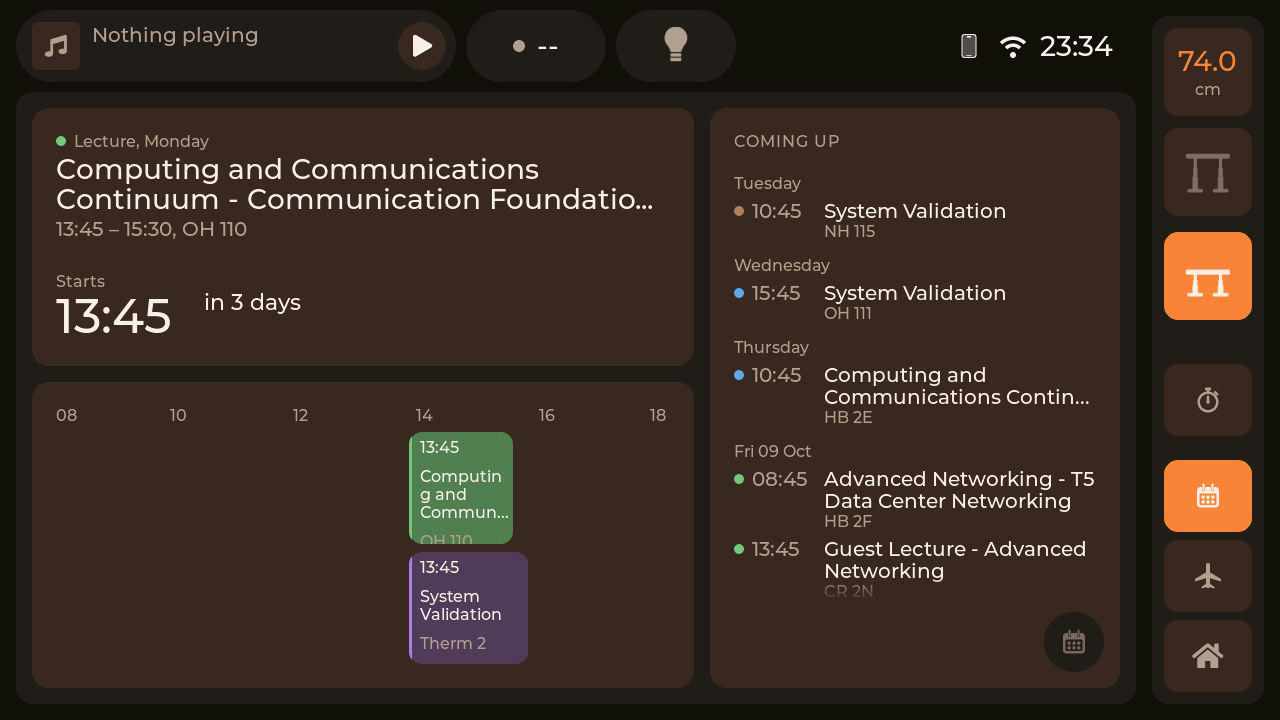
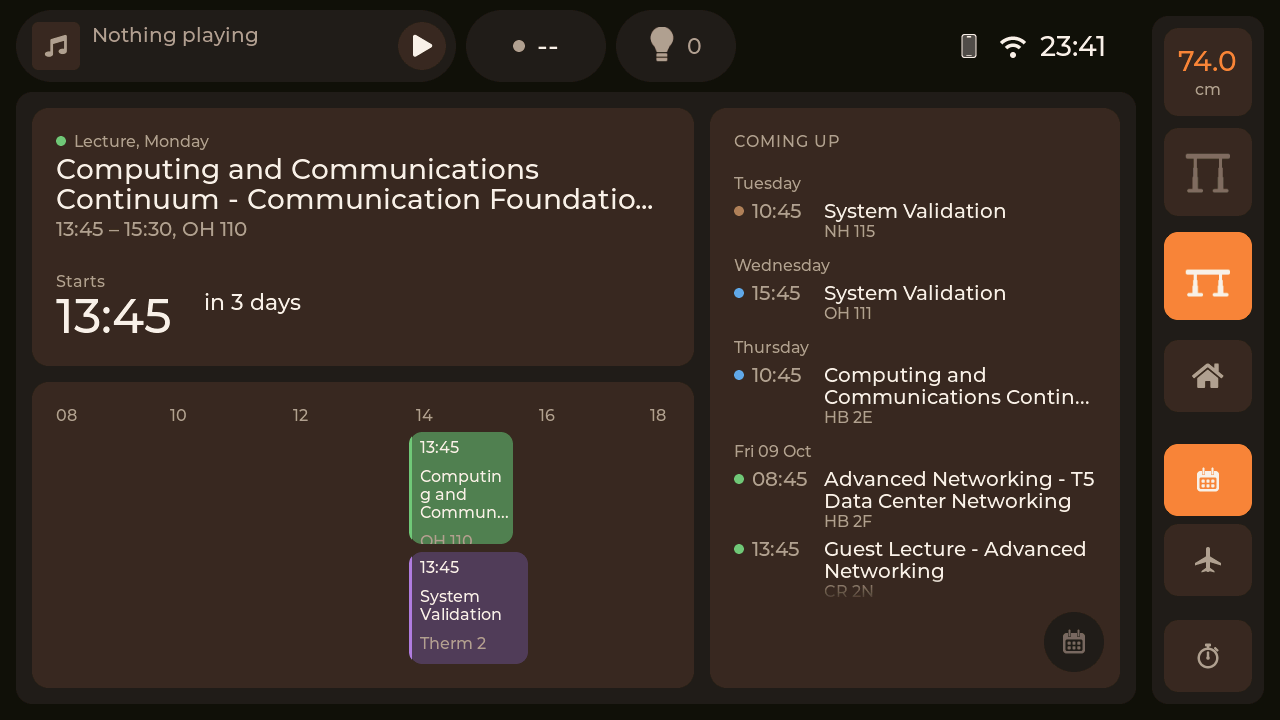
Put Home under Stand and Sit, where a hand finds it first, with Radar and Calendar standing up from the dock's foot and the timer lowest, being no page; and the lights' count 0 while they are off rather than nothing

diff --git a/components/ui/rail.cpp b/components/ui/rail.cpp
@@ -23,7 +23,9 @@ constexpr std::int32_t DOCK_INNER_W  = DOCK_W - 2 * DOCK_PAD;  // Stand and Sit 
 constexpr std::int32_t DOCK_GAP      = 12;
 constexpr std::int32_t DOCK_DESK_ICON = 46;
 constexpr std::int32_t FOCUS_H     = 72;
-constexpr std::int32_t FOCUS_APART = 16;  // from the tabs under it
+constexpr std::int32_t FOCUS_APART = 16;  // from the tabs over it
+// Home under Stand and Sit, apart from them: the height and the two, then a gap.
+constexpr std::int32_t HOME_Y = 3 * (DOCK_W - 2 * DOCK_PAD) + 2 * DOCK_GAP + 2 * DOCK_GAP;
 
 constexpr std::int32_t SHEET_PAD     = 28;
 constexpr std::int32_t SHEET_GAP     = 24;  // from the dock
@@ -248,13 +250,13 @@ void paint_focus_button()
     lv_obj_set_style_opa(s_focus_left, focus_paused(focus) ? LV_OPA_50 : LV_OPA_COVER, 0);
 }
 
-// Over the pages' tabs, a little apart from them, being no page itself.
+// Under the pages' tabs, a little apart from them, being no page itself.
 void build_focus_button(lv_obj_t *tabs)
 {
     s_focus_button = lv_button_create(tabs);
     theme::style_button(s_focus_button, theme::panel_light);
     lv_obj_set_size(s_focus_button, DOCK_INNER_W, FOCUS_H);
-    lv_obj_set_style_margin_bottom(s_focus_button, FOCUS_APART, 0);
+    lv_obj_set_style_margin_top(s_focus_button, FOCUS_APART, 0);
     theme::fill_accent(s_focus_button, LV_STATE_CHECKED);
     // On the accent while its card is out, as the height is, the timer on it in the text's colour.
     lv_obj_add_event_cb(s_focus_button, [](lv_event_t *) {
@@ -360,9 +362,15 @@ lv_obj_t *dock_tabs()
     return s_tabs;
 }
 
+// Home under the desk, where a hand finds it first; the other pages stand up
+// from the foot, the timer lowest of all, being no page.
 void dock_tabs_done()
 {
-    build_focus_button(s_tabs);  // last in a column that stands up from the foot, so on top
+    lv_obj_t *home = lv_obj_get_child(s_tabs, 0);  // the first made, Home
+    lv_obj_set_parent(home, s_rail);
+    lv_obj_align(home, LV_ALIGN_TOP_MID, 0, HOME_Y);
+    build_focus_button(s_tabs);
+    lv_obj_move_to_index(s_focus_button, 0);  // first in a column that stands up from the foot, so lowest
 }
 
 void create_dock(lv_obj_t *parent)

diff --git a/components/ui/control_bar.cpp b/components/ui/control_bar.cpp
@@ -580,13 +580,10 @@ void paint_lights_slot()
     for (const bool lit : lights.light_on) {
         on += lit ? 1 : 0;
     }
-    char text[16] = "";
-    if (lights.on && on > 0) {
-        std::snprintf(text, sizeof(text), "%d", on);
-    }
+    char text[16];
+    std::snprintf(text, sizeof(text), "%d", lights.on ? on : 0);
     // On in the accent, rather than the whole slot filled with it.
     theme::set_text(s_lights_text, text);
-    lv_obj_set_hidden(s_lights_text, text[0] == '\0');  // the bulb alone, in the middle, while all are off
     theme::set_text_color(s_lights_text, lights.on ? theme::primary : theme::secondary);
     for (std::uint32_t i = 0; i < lv_obj_get_child_count(s_lights_bulb); ++i) {
         lv_obj_set_style_image_recolor(lv_obj_get_child(s_lights_bulb, static_cast<std::int32_t>(i)),

diff --git a/README.md b/README.md
@@ -53,7 +53,7 @@ Once the screen was there, the extra features kept coming, each one making it a 
 
 ![The home page with music on the speaker](docs/screenshots/home-music.png)
 
-This is what the panel shows most of the day. Two things are on every page, in the same place whatever happens. The dock at the side has the desk's height at its head with Stand and Sit under it, the focus timer under those, and the pages standing up from its foot, Home lowest, then Radar and Calendar. The control bar along the top has what gets touched every day: what is playing with play and pause right there, the heating, the lights, and the time with the phone, Wi-Fi and the battery while it is unplugged. A tap on the track drops its card with skip, the volume, the favourites and the way into the cinema or music view, and while an episode's intro or credits run, Skip intro or Next episode takes the title's place; a tap on the heating drops its dial; a tap on the lights turns them all on or off, and holding it shows each light. A tap on the time opens Setup.
+This is what the panel shows most of the day. Two things are on every page, in the same place whatever happens. The dock at the side has the desk's height at its head with Stand and Sit under it and Home under those, and from its foot the focus timer, Radar and Calendar standing up. The control bar along the top has what gets touched every day: what is playing with play and pause right there, the heating, the lights, and the time with the phone, Wi-Fi and the battery while it is unplugged. A tap on the track drops its card with skip, the volume, the favourites and the way into the cinema or music view, and while an episode's intro or credits run, Skip intro or Next episode takes the title's place; a tap on the heating drops its dial; a tap on the lights turns them all on or off, and holding it shows each light. A tap on the time opens Setup.
 
 Home itself is for looking at: the air across the top, each reading with a dot for how it is doing, the sky overhead with every aircraft in its height's colour, and what comes next on the calendar with the few after it. A tap on either opens its page.
 
